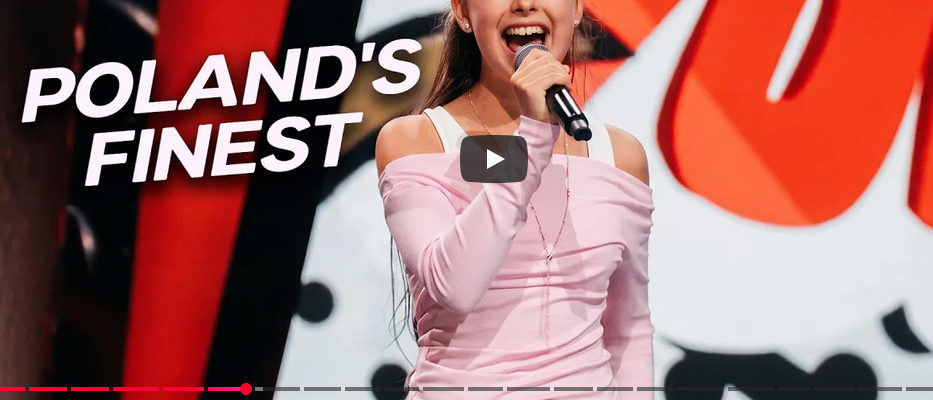
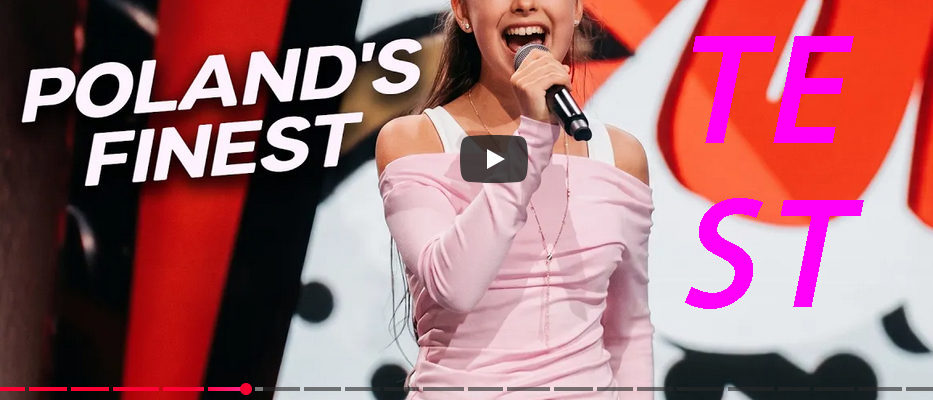
test image upload 06

Changed region(s): [[0.746, 0.09, 0.9325, 0.36], [0.7149, 0.48, 0.9325, 0.78]]

diff --git a/contact/pl/contact.md b/contact/pl/contact.md
@@ -8,6 +8,8 @@ Poniższe zdjęcia przedstawiają drogę do Zakładu Biofizyki Medycznej oraz we
 
 ![Plik testowy remote_test](images/contact/remote_test.jpg)
 
+![Test](images/contact/location99.jpg)
+
 ![Miejsce wejscia - oznaczonek krzyzykiem](images/contact/location1.jpg)
 
 ![Wejdź przez bramę lub idź w stronę przystanku](images/contact/location2.jpg)
